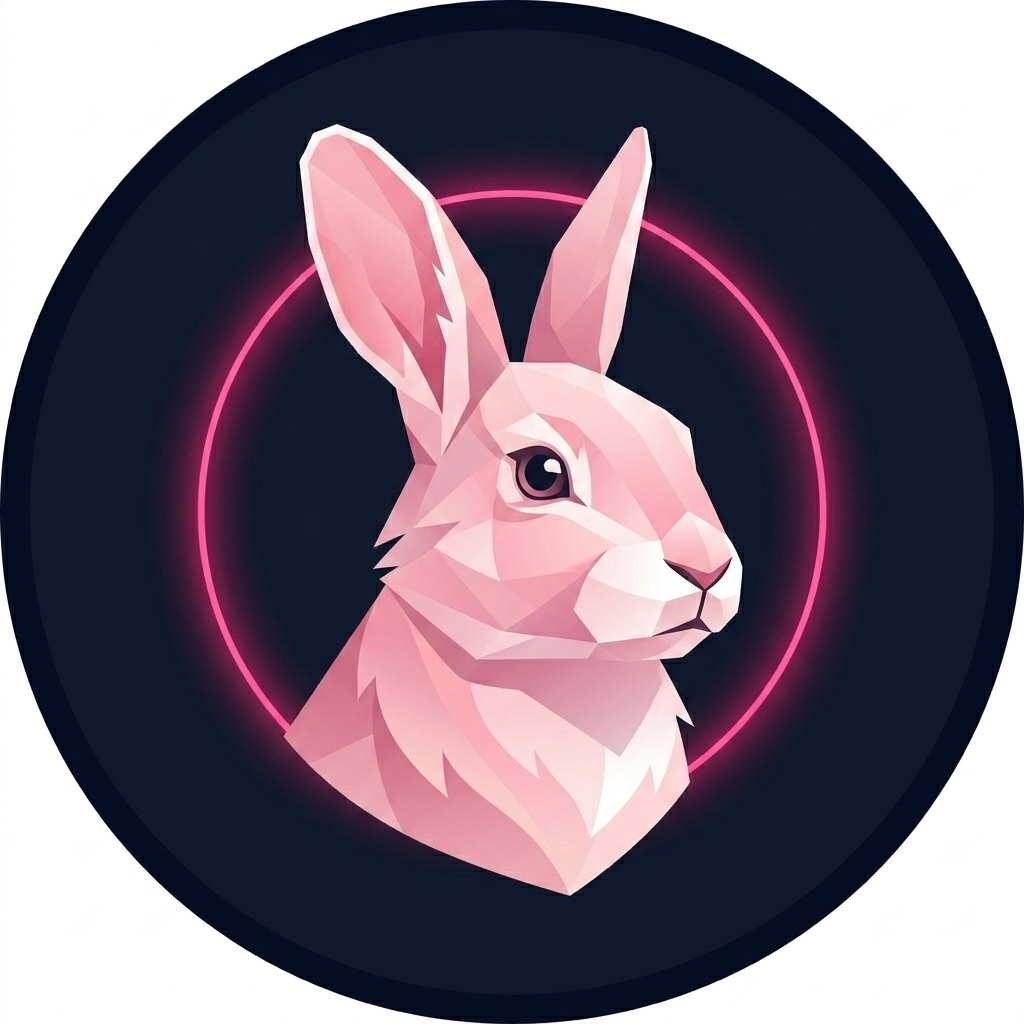
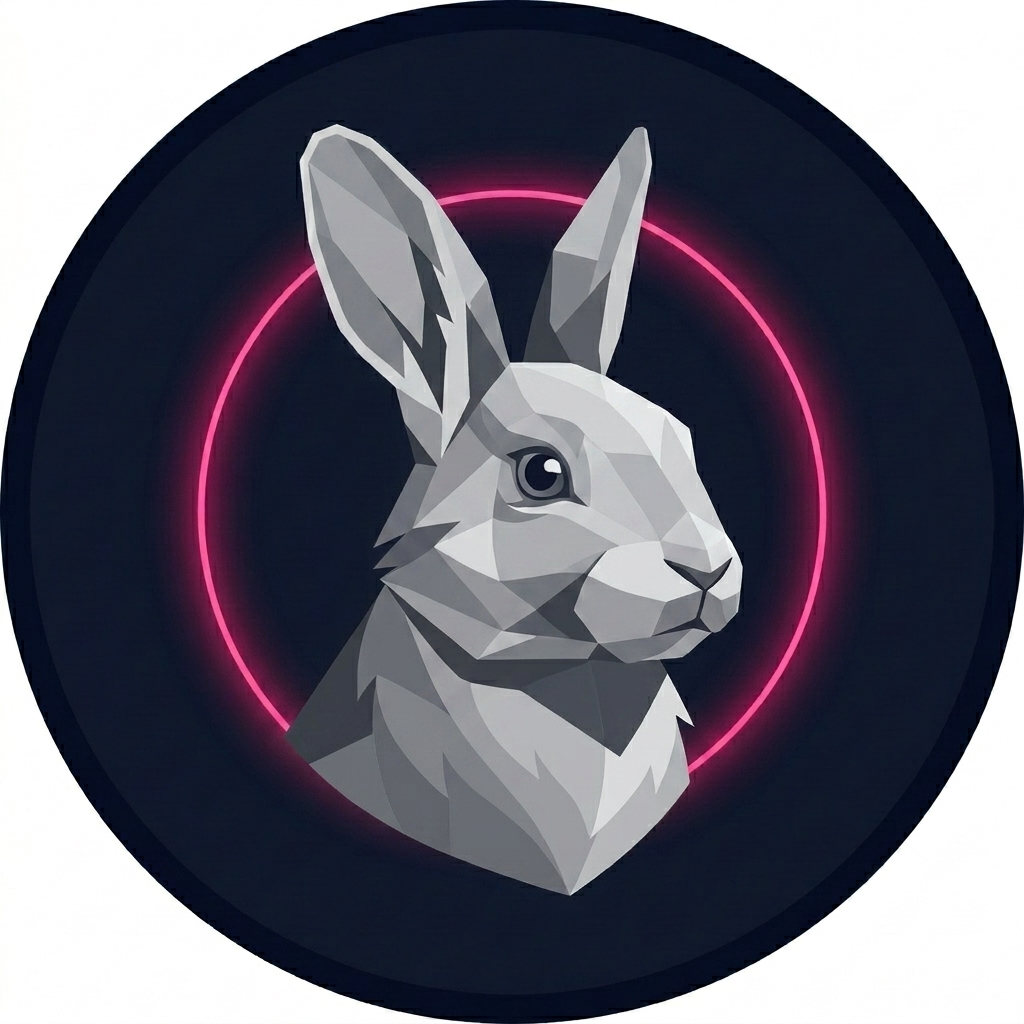
Ajuste a imagenes

Changed region(s): [[0.2812, 0.125, 0.75, 0.875]]

diff --git a/src/app/pages/cualidades/cualidades.ts b/src/app/pages/cualidades/cualidades.ts
@@ -1341,7 +1341,7 @@ export class Cualidades implements OnInit {
       // LIBRES DESDE EL INICIO
       { id: 'gato', name: 'Gato', type: 'inicial', emoji: '🐱', color: '#10b981', role: 'Ninja Ágil', cost: 0, qualityId: null },
       { id: 'perro', name: 'Perro', type: 'inicial', emoji: '🐶', color: '#3a86f0', role: 'Guardián Fiel', cost: 0, qualityId: null },
-      { id: 'conejo', name: 'Conejo', type: 'inicial', emoji: '🐰', color: '#ec4899', role: 'Veloz Saltarín', cost: 0, qualityId: null },
+      { id: 'conejo', name: 'Conejo', type: 'inicial', emoji: '🐰', color: '#9ca3af', role: 'Veloz Saltarín', cost: 0, qualityId: null },
       { id: 'loro', name: 'Loro', type: 'inicial', emoji: '🦜', color: '#fbbf24', role: 'Eco Parlanchín', cost: 0, qualityId: null },
       { id: 'hamster', name: 'Hámster', type: 'inicial', emoji: '🐹', color: '#f97316', role: 'Veloz Corredor', cost: 0, qualityId: null },
       { id: 'pez', name: 'Pez', type: 'inicial', emoji: '🐟', color: '#06b6d4', role: 'Nadador Fluido', cost: 0, qualityId: null },

diff --git a/src/app/services/membership.service.ts b/src/app/services/membership.service.ts
@@ -74,7 +74,7 @@ export class MembershipService {
   avatarsCatalog = signal<AvatarItem[]>([
     { id: 'gato', name: 'Gato', icon: 'fa-cat', color: '#10b981', isUnlocked: true, isInitial: true },
     { id: 'perro', name: 'Perro', icon: 'fa-dog', color: '#3a86f0', isUnlocked: true, isInitial: true },
-    { id: 'conejo', name: 'Conejo', icon: 'fa-rabbit', color: '#ec4899', isUnlocked: true, isInitial: true },
+    { id: 'conejo', name: 'Conejo', icon: 'fa-rabbit', color: '#9ca3af', isUnlocked: true, isInitial: true },
     { id: 'loro', name: 'Loro', icon: 'fa-dove', color: '#fbbf24', isUnlocked: true, isInitial: true },
     { id: 'hamster', name: 'Hámster', icon: 'fa-paw', color: '#f97316', isUnlocked: true, isInitial: true },
     { id: 'pez', name: 'Pez', icon: 'fa-fish', color: '#06b6d4', isUnlocked: true, isInitial: true },
